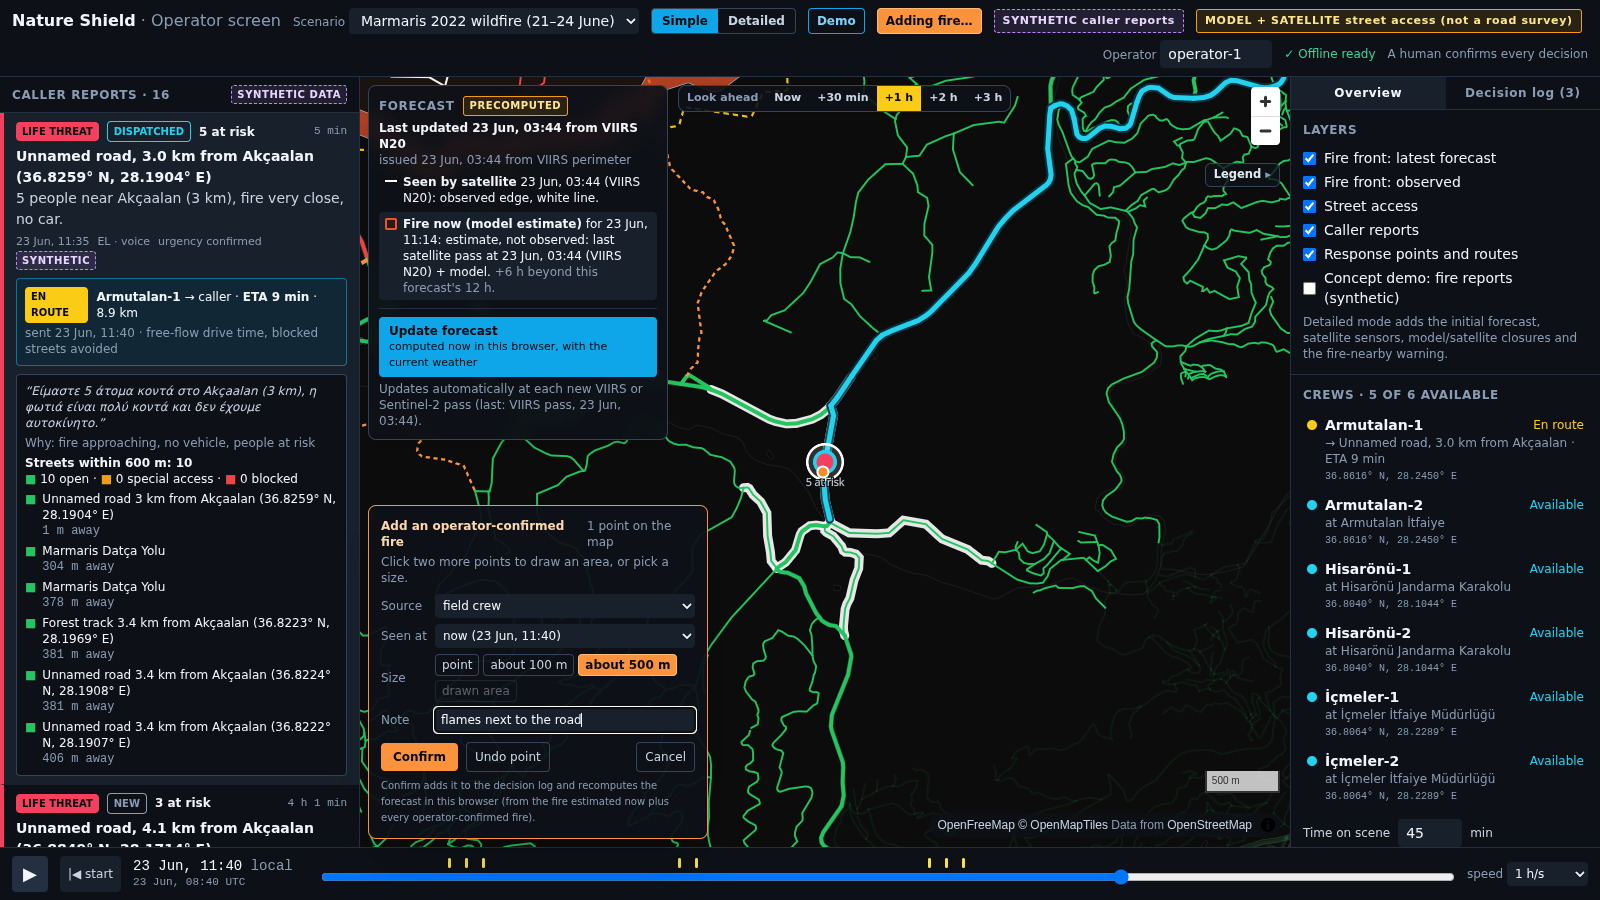
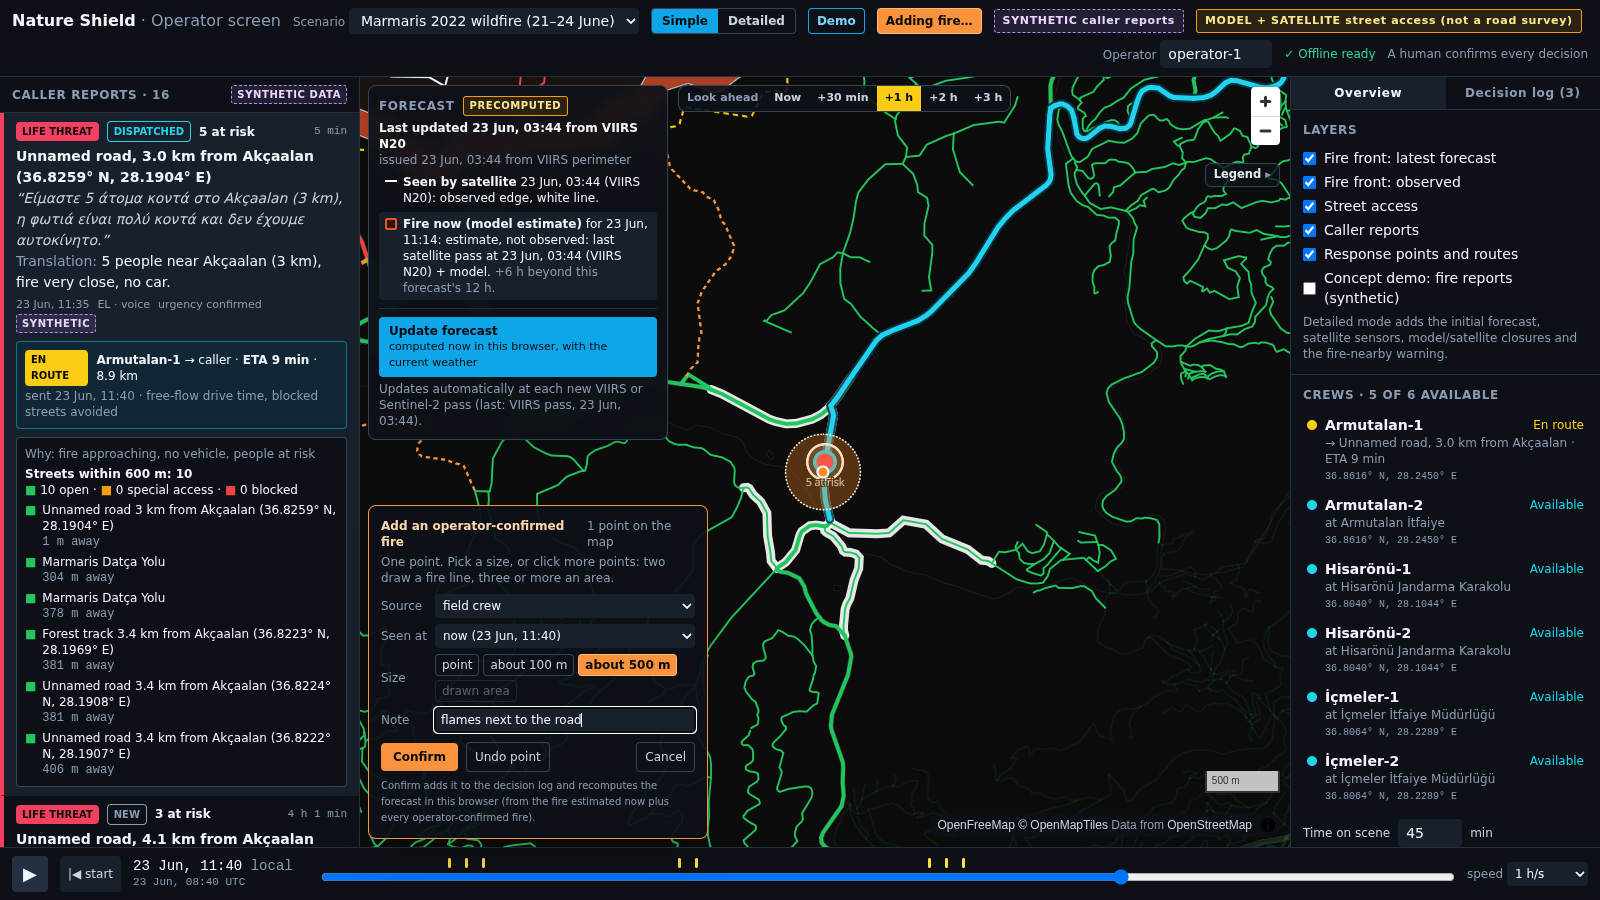
README and screenshots: drawn areas, the forecast box notes, smoothed outlines (before / after at 200 m and 2 km)

Changed region(s): [[0.0, 0.2178, 0.2188, 0.9644], [0.4688, 0.4667, 0.5625, 0.5911], [0.2188, 0.6222, 0.4062, 0.6533]]

diff --git a/README.md b/README.md
@@ -352,16 +352,24 @@ The model has no suppression, so late updates over-predict.
 **Add fire** (top bar) lets the operator put a fire reported by a field crew, a drone, a caller or another source
 into the real scenario:
 
-- Click the map for a point, or click three or more points to draw its area. The box asks for the source, when it
-  was seen (now, or up to 2 hours earlier), its rough size (point, about 100 m, about 500 m, or the drawn area) and a
-  short note. **Confirm** adds it to the decision log and to the map, with its own orange area, a white dashed edge
+- Click the map for a point, or click more points to draw it: from the second click the size switches to the drawn
+  area (two clicks: a fire line 60 m wide; three or more: the polygon clicked), and the map previews exactly what
+  Confirm adds. Picking point / about 100 m / about 500 m after drawing makes it one fire at the centre of the clicks,
+  and the box says so ("the drawn area is not used"). The box also asks for the source, when it was seen (now, or up
+  to 2 hours earlier) and a short note. **Confirm** adds it to the decision log and to the map, with its own orange area, a white dashed edge
   and a label: "Operator-confirmed fire · crew · 22:40". Drag the label to move the fire; its ✕ deletes it. Moves
   and deletions are logged too.
-- Each change recomputes the forecast **in this browser**: from the fire the forecast in force estimates for that
-  moment (built from the last satellite edge) plus every operator-confirmed fire, with the scenario's weather from
-  then on. The forecast box then says **LIVE IN BROWSER** and "Last updated 22:41 · satellite 21:05 + 1
-  operator-confirmed fire"; fire now, the look-ahead line, the forecast closures, the route warnings and the crews'
-  routes follow it. Deleting the last operator fire brings back the forecast without it.
+- Each change recomputes the forecast **in this browser**: from the fire the forecast in force estimates (built
+  from the last satellite edge; the model runs from the time of that estimate's half-hour step, with the weather
+  from then) plus every operator-confirmed fire, burning from the time it was seen. The forecast box then says
+  **LIVE IN BROWSER** and "Last updated 22:41 · satellite 21:05 + 1 operator-confirmed fire"; fire now, the
+  look-ahead line, the forecast closures, the route warnings and the crews' routes follow it. A fire added inside
+  the area the forecast already had by +6 h cannot change that area: the box says "already inside the +6 h forecast
+  area; changes timing nearby" instead of "+6 h 32.7 km² (was 32.7)".
+- Deleting a fire recomputes without it ("+ model · operator-confirmed fire deleted", LIVE IN BROWSER); only
+  without the browser model does the screen go back to the precomputed forecast. A browser forecast remembers which
+  fire versions it was made from, so the next one never starts from a forecast that still holds a fire since
+  moved or deleted.
 - **Update forecast** uses the browser model too (re-run with the current weather); the precomputed forecasts stay
   as the fallback (and for the CONCEPT DEMO reports, whose forecasts were precomputed). A confirmed CONCEPT DEMO
   report can be added the same way ("Add as confirmed fire").
@@ -379,6 +387,19 @@ TypeScript and run in a Web Worker. Its inputs come from `tools/export_spread_gr
 the fuel parameters, settings and hourly weather (`spread_model.json`); both are in the offline package. An update
 takes 0.1–0.8 s on a laptop (a few seconds on a phone). A newer change cancels a computation still running
 (`LatestRequest`, checked between Monte Carlo runs).
+
+**Outlines** of a browser forecast are cleaned and smoothed like the precomputed ones (whose contours get
+`buffer(+60 m).buffer(-60 m).simplify(30 m)` in Python): a one-cell closing, holes under 12 cells filled, parts
+under 3 cells dropped (never an operator-confirmed fire), marching squares over the cell centres (45° steps
+instead of 60 m stairs; rings never cross), then two rounds of Chaikin. Areas and street reach still come from the
+cells. On the 49 masks of the validation cases: no crossing segments, IoU 1.000 with the cleaned cells, 0.986 with
+the raw cells, 0.968 with the library's Python-smoothed start. The front band of both kinds of forecast is drawn
+opaque (a see-through wide line drew its overlaps at bends twice, as bright wedges), with its light edges under it.
+
+| Browser forecast, before | After (smoothed outlines, opaque band) |
+|---|---|
+| ![200 m before](docs/f_smooth_before_200m.png) | ![200 m after](docs/f_smooth_after_200m.png) |
+| ![2 km before](docs/f_smooth_before_2km.png) | ![2 km after](docs/f_smooth_after_2km.png) |
 
 **Checked against the Python model** (`tools/compare_spread.py` writes the reference cases, `tests/spread.test.ts`
 compares; IoU = intersection over union of the cells):
@@ -404,6 +425,11 @@ only to 0.80 / 0.74 at 6 / 12 h themselves, and with 400 runs the browser and Py
 |---|---|
 | ![before](docs/f_before.png) | ![after](docs/f_after.png) |
 
+| Drawn area: four clicks, "point" picked first | Picking a size makes it one fire, and says so |
+|---|---|
+| ![drawn](docs/f_drawn_dialog.png) | ![collapsed](docs/f_drawn_collapsed.png) |
+
+Inside the +6 h area: [docs/f_inside.png](docs/f_inside.png); the drawn area added: [docs/f_drawn_after.png](docs/f_drawn_after.png).
 Decision log: [docs/f_log.png](docs/f_log.png); phone: [dialog](docs/f_phone_dialog.png), [after](docs/f_phone_after.png).
 
 ## Fire reports from people (CONCEPT DEMO)
